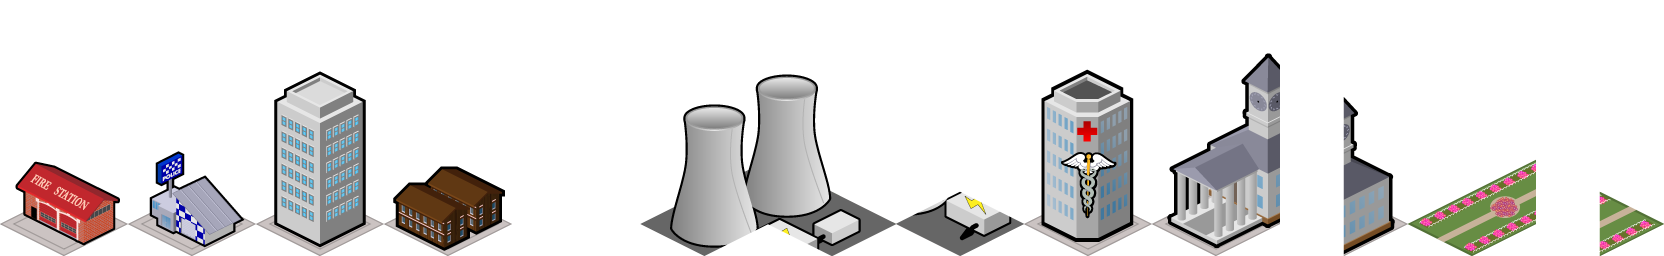
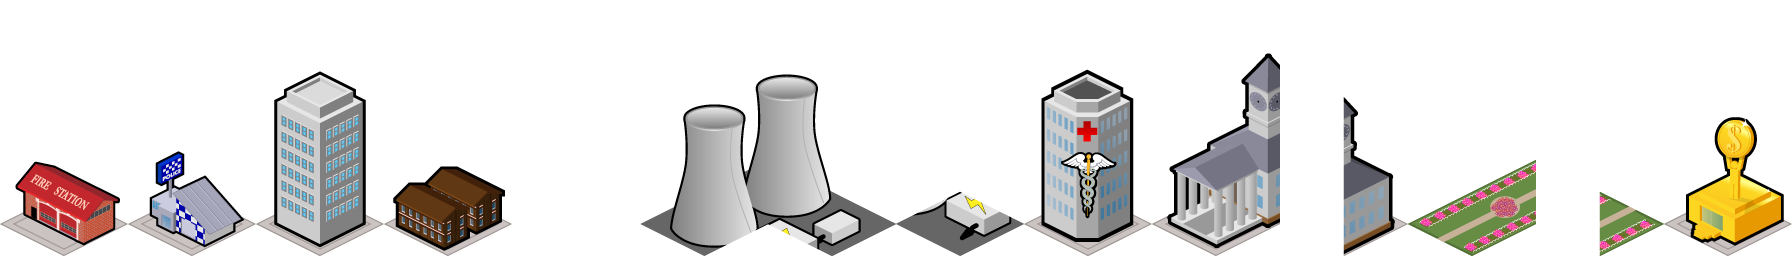
finished builder

diff --git a/builder/world.js b/builder/world.js
@@ -84,12 +84,81 @@ var world = function (spec, my) {
         my.data.layers[0].data[index] = gid;
         var tilesetId = gid < my.data.tilesets[2].firstgid ? 0 : 1;
         var offset = my.data.tilesets[tilesetId*2].firstgid;
-        console.log(gid + ": " + tilesetId + '/' + my.data.tilesets[2].firstgid);
         tiles[index].setTile(gid - offset, tileset[tilesetId], 
                             { 'x': my.data.tilesets[0].tilewidth/2,
                               'y': my.data.tilesets[tilesetId*2].tileheight - my.data.tilesets[0].tileheight/2,
                             });
         
+    }
+
+    that.tick = function () {
+        var sicken = 0.03;
+        var infect = 0.001*(1+Math.floor(spec.status.infected));
+        var infectSick = infect*2;
+        for (var y = 0; y < my.data.layers[0].height; ++y) {
+            for (var x = 0; x < my.data.layers[0].width; ++x) {
+                var index = x + (y * my.data.layers[0].width);
+                var gid = my.data.layers[0].data[index];
+                var tilesetId = gid < my.data.tilesets[2].firstgid ? 0 : 2;
+                var oldSick = spec.status.sick;
+                var oldInfected = spec.status.infected;
+                gid -= my.data.tilesets[tilesetId].firstgid;
+                if (my.data.tilesets[tilesetId].tileproperties &&
+                    my.data.tilesets[tilesetId].tileproperties[gid]) {
+                    if(my.data.tilesets[tilesetId].tileproperties[gid]["income"]) {
+                        var income = parseInt(my.data.tilesets[tilesetId].tileproperties[gid]["income"]);
+                        spec.status.money += income/20;
+                    }
+                    if (my.data.tilesets[tilesetId].tileproperties[gid]["tax"]) {
+                        var tax = parseInt(my.data.tilesets[tilesetId].tileproperties[gid]["tax"]);
+                        spec.status.money += tax*spec.status.population/20;
+                    }
+                    if (my.data.tilesets[tilesetId].tileproperties[gid]["interest"]) {
+                        var interest = parseInt(my.data.tilesets[tilesetId].tileproperties[gid]["interest"]);
+                        spec.status.money += interest*spec.status.money/20;
+                    }
+                    if (my.data.tilesets[tilesetId].tileproperties[gid]["population"]) {
+                        var population = parseInt(my.data.tilesets[tilesetId].tileproperties[gid]["population"]);
+                        spec.status.population += population/20;
+                    }
+                    if (my.data.tilesets[tilesetId].tileproperties[gid]["cure"]) {
+                        var cure = parseInt(my.data.tilesets[tilesetId].tileproperties[gid]["cure"]);
+                        spec.status.sick -= cure/20;
+                    }
+                    if (my.data.tilesets[tilesetId].tileproperties[gid]["purge"]) {
+                        var purge = parseInt(my.data.tilesets[tilesetId].tileproperties[gid]["purge"]);
+                        spec.status.infected -= purge/20;
+                    }
+                    if (my.data.tilesets[tilesetId].tileproperties[gid]["protect"]) {
+                        var protect = parseInt(my.data.tilesets[tilesetId].tileproperties[gid]["protect"]);
+                        sicken *= protect;
+                        infect *= protect;
+                        infectSick *= protect;
+                    }
+                }
+            }
+        }
+        spec.status.sick += spec.status.population * sicken / 20;
+        if(spec.status.sick < 0) { spec.status.sick = 0; }
+        spec.status.population -= spec.status.sick - oldSick;
+        spec.status.infected += spec.status.population * infect / 20;
+        spec.status.population -= spec.status.infected - oldInfected;
+        var sickInfect = spec.status.sick * infectSick / 20;
+        if (sickInfect < spec.status.sick) {
+            spec.status.sick -= sickInfect;
+            spec.status.infected += sickInfect;
+        } else {
+            spec.status.infected += spec.status.sick;
+            spec.status.sick = 0;
+        }
+        if(spec.status.infected < 0) {
+            spec.status.infected = 0;
+        }
+        spec.status.money += 0.1*spec.status.population/20;
+        if(spec.status.infected > spec.status.population) {
+            that.upload();
+            that.load();
+        }
     }
     
     that.loaded = function () {

diff --git a/builder/main.js b/builder/main.js
@@ -16,8 +16,15 @@ jQuery(document).ready(function () {
     
     canvas.width = 800;
     canvas.height = 600;
-    
-    var city = world({'socket': socket});
+
+    var status = {
+        "money": 2000,
+        "population": 0,
+        "sick": 0,
+        "infected": 0,
+    };
+
+    var city = world({'socket': socket, 'status': status});
     city.load();
     stage.addChild(city);
     
@@ -25,8 +32,13 @@ jQuery(document).ready(function () {
     
     var cursor;
     var buildings = jQuery.getJSON('/buildings.json', function (data) {
-        cursor = selector({'colour': Graphics.getRGB(255,255,0), 'city': city, 'buildings': data.buildings});
-        stage.addChild(cursor);
+        cursor = selector({
+            'colour': Graphics.getRGB(255,255,0),
+            'city': city,
+            'buildings': data.buildings,
+            'status': status,
+        });
+        city.addChild(cursor);
     });
     
     var update = {};
@@ -34,19 +46,19 @@ jQuery(document).ready(function () {
         stage.update();
         if(stage.mouseInBounds) {
             if(cursor){
-                cursor.moveTo(city.tileAt(stage.mouseX - stage.x,
-                                          stage.mouseY - stage.y));
+                cursor.moveTo(city.tileAt(stage.mouseX - city.x,
+                                          stage.mouseY - city.y));
             }
             
             if(stage.mouseX < 50) {
-                stage.x += scrollSpeed;
+                city.x += scrollSpeed;
             } else if(stage.mouseX > canvas.width - 20) {
-                stage.x -= scrollSpeed;
+                city.x -= scrollSpeed;
             }
             if(stage.mouseY < 50) {
-                stage.y += scrollSpeed;
+                city.y += scrollSpeed;
             } else if(stage.mouseY > canvas.height - 20) {
-                stage.y -= scrollSpeed;
+                city.y -= scrollSpeed;
             }
         }
     };
@@ -57,8 +69,8 @@ jQuery(document).ready(function () {
     
     document.onkeyup = function (key) {
         //cross browser issues exist
-        if(!key){ var key = window.event; }
-        switch(key.keyCode) {
+        if (!key) { var key = window.event; }
+        switch (key.keyCode) {
         case KEYCODE_1:
             if (cursor) {
                 cursor.setBuilding(0);
@@ -85,7 +97,7 @@ jQuery(document).ready(function () {
             }
             break;
         case KEYCODE_6:
-            if (cursor) {
+            if (cursor) { 
                 cursor.setBuilding(5);
             }
             break;
@@ -99,6 +111,11 @@ jQuery(document).ready(function () {
                 cursor.setBuilding(7);
             }
             break;
+        case KEYCODE_9:
+            if (cursor) {
+                cursor.setBuilding(8);
+            }
+            break;
         }
     }
     
@@ -106,6 +123,8 @@ jQuery(document).ready(function () {
 	    canvas.width = window.innerWidth;
         canvas.height = window.innerHeight;
     };
+                       
+    stage.addChild(statusDisplay({'status': status}));     
 
     window.addEventListener('resize', resize, false);
     Ticker.addListener(update);

diff --git a/builder/selector.js b/builder/selector.js
@@ -2,12 +2,13 @@ var selector = function (spec, my) {
     var that;
     my = my || {};
     
-    //that = new Shape();
     that = new Container();
     that.visible = false;
 
     var buildings = spec.buildings;
     var building;
+
+    var status = spec.status;
 
     that.alpha = spec.alpha || 0.5;
 
@@ -20,15 +21,6 @@ var selector = function (spec, my) {
     
     that.setBuilding = function (newBuilding) {
         building = newBuilding;
-
-        /*that.graphics.clear();
-        that.graphics.beginFill(spec.colour);
-        that.graphics.moveTo(-buildings[building].width * 0.5, (buildings[building].height - 1) * 0.5);
-        that.graphics.lineTo(0,-0.5);
-        that.graphics.lineTo(buildings[building].width * 0.5, (buildings[building].height - 1) * 0.5);
-        that.graphics.lineTo(0,buildings[building].height - 0.5);
-        that.graphics.closePath();
-        that.graphics.endFill();*/
 
         if (city.loaded()) {
             that.removeAllChildren();
@@ -65,7 +57,11 @@ var selector = function (spec, my) {
     }
     
     that.place = function () {
-	    if(inBounds(pos)) {
+	    if (inBounds(pos)) {
+            if (status.money < buildings[building].cost) {
+                return false;
+            }
+            
 	        clear = true;
 	        for (var x = 0; x < buildings[building].width; ++x) {
 		        for (var y = 0; y < buildings[building].height; ++y) {
@@ -82,7 +78,11 @@ var selector = function (spec, my) {
 			            city.setTile(pos.x + x, pos.y + y, buildings[building].data[x + y * buildings[building].width]);
 		            }
 		        }
-	        }
+                status.money -= buildings[building].cost;
+                return true;
+	        } else {
+                return false;
+            }
 	    }
     }
     

diff --git a/builder/statusDisplay.js b/builder/statusDisplay.js
@@ -1,0 +1,38 @@
+var statusDisplay = function (spec, my) {
+    var that;
+    my = my || {};
+    
+    that = new Container();
+
+    that.x = spec.x || 0;
+    that.y = spec.y || 0;
+    
+    var moneyText = new Text("0", "32px sans-serif", "#ffffff");
+	moneyText.x = 10;
+	moneyText.y = 30;
+    that.addChild(moneyText);
+    
+    var populationText = new Text("0", "32px sans-serif", "#ffffff");
+	populationText.x = 10;
+	populationText.y = 80;
+    that.addChild(populationText);
+    
+    var sickText = new Text("0", "32px sans-serif", "#ffffff");
+	sickText.x = 10;
+	sickText.y = 130;
+    that.addChild(sickText);
+    
+    var infectedText = new Text("0", "32px sans-serif", "#ffffff");
+	infectedText.x = 10;
+	infectedText.y = 180;
+    that.addChild(infectedText);
+
+    that.tick = function () {
+        moneyText.text = "" + Math.floor(spec.status.money);
+        populationText.text = "" + Math.floor(spec.status.population);
+        sickText.text = "" + Math.floor(spec.status.sick);
+        infectedText.text = "" + Math.floor(spec.status.infected);
+    }
+    
+    return that;
+}

diff --git a/builder/index.html b/builder/index.html
@@ -8,9 +8,10 @@
     <script src="world.js"></script>
     <script src="tile.js"></script>
     <script src="selector.js"></script>
+    <script src="statusDisplay.js"></script>
     
     <style>
-      body { padding: 0; margin: 0; }
+      body { background-color: black; padding: 0; margin: 0; }
       #game { display: block; }
     </style>
   </head>
